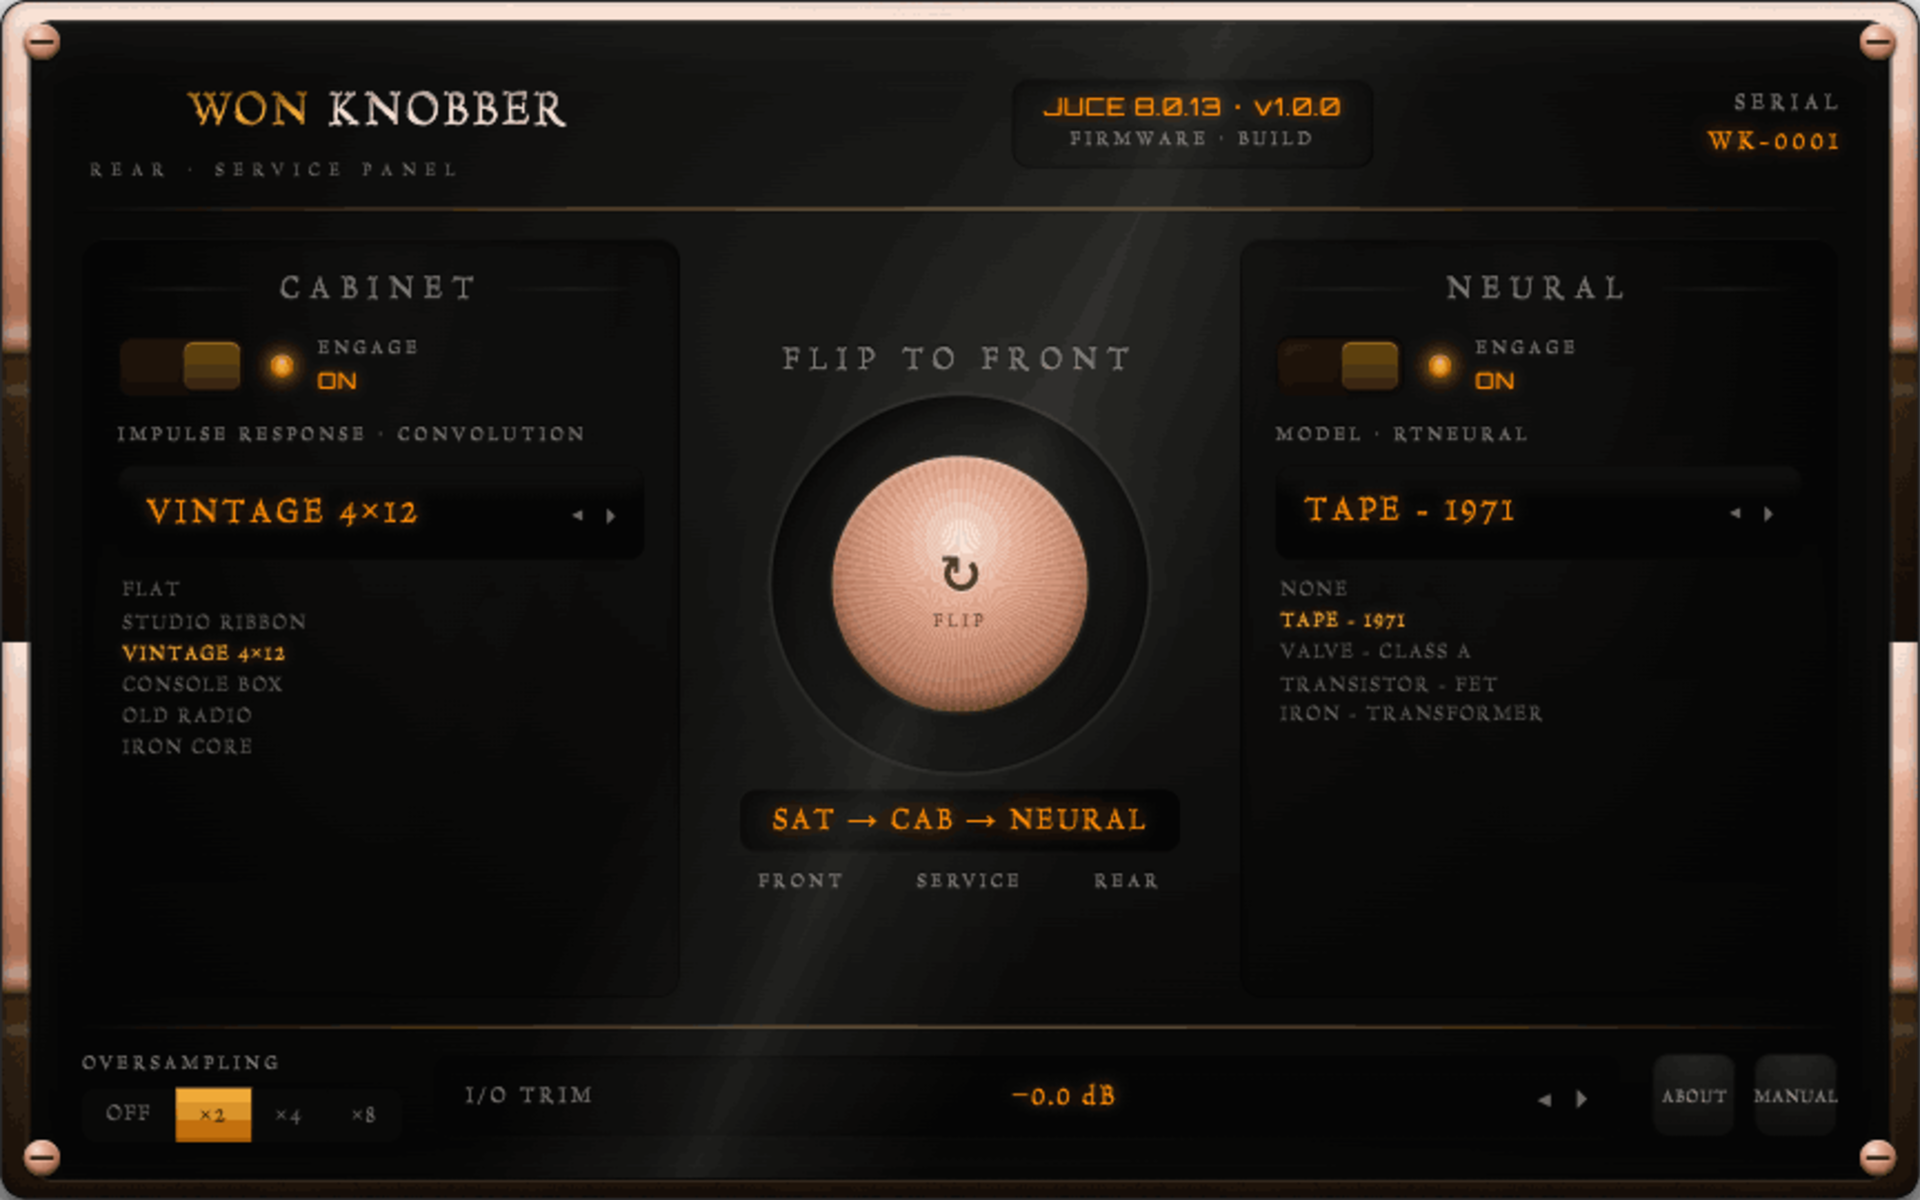
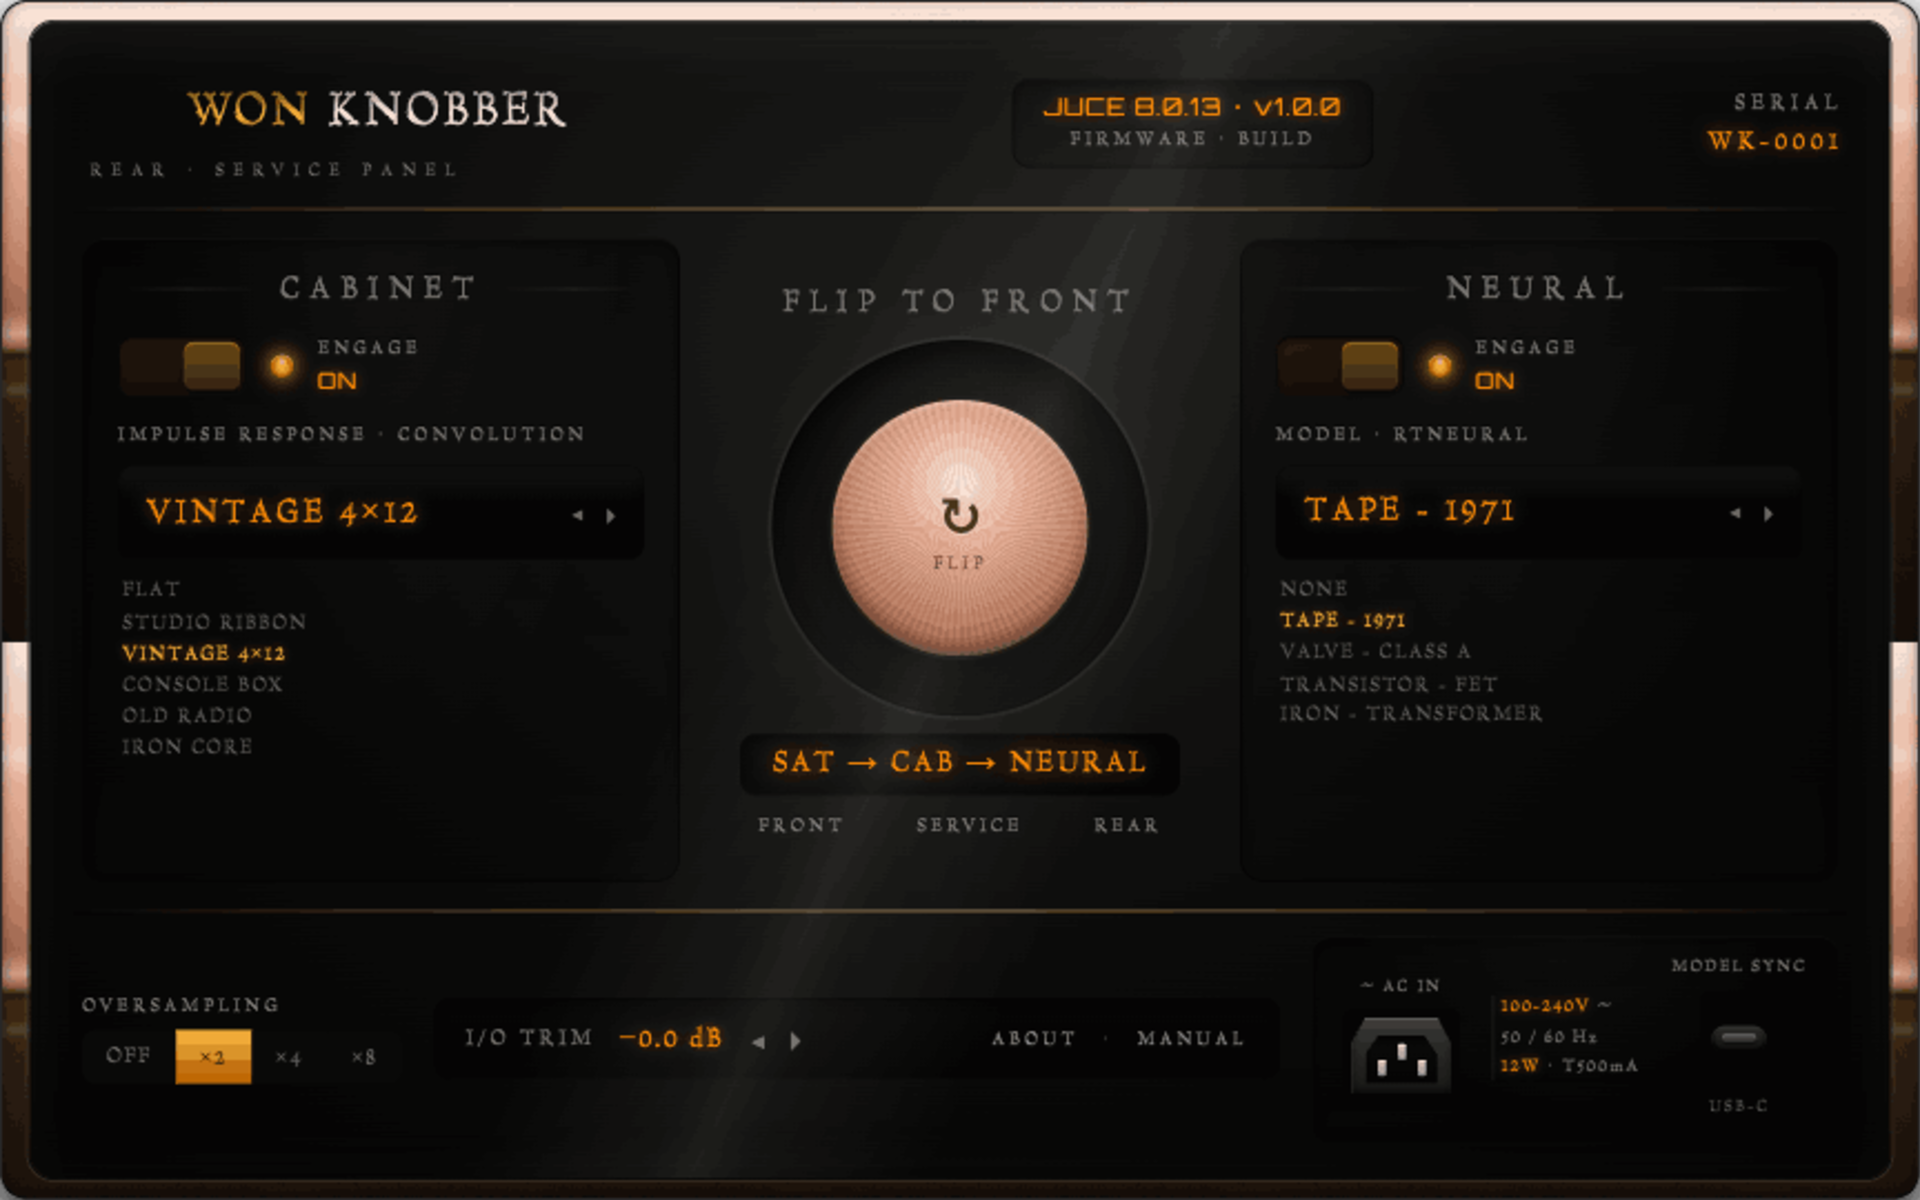
design: rose/amber rear panel PNG re-bake (Jun 2 handoff) (#52)
* design: rose/amber rear panel PNG re-bake (Design handoff zip 2026-06-02)

Replaces Resources/rear-panel-background-* with repo-handoff exports from
"Won Knobber — One Knob Design System-handoff (2).zip". Anchors unchanged
(#51 rects still authoritative).

* docs: refresh design handoff status after Jun 2 zip ingest

diff --git a/docs/DESIGN_HANDOFF_STATUS.md b/docs/DESIGN_HANDOFF_STATUS.md
@@ -1,14 +1,20 @@
-# Design handoff — filesystem status (2026-06-02)
+# Design handoff — filesystem status (2026-06-02 pm)
 
 | File | In repo? | Notes |
 |------|----------|-------|
-| `voice-cab-neural-map.md` | Yes (#43 / #44) | Authoritative voice map |
-| `SYNC_TO_CC_cab_neural_direction.md` | Yes | §3 bypass + About spec |
-| `rear-panel-anchors.json` | **Stale (#43/44)** | Re-measured JSON **not in Grok relay** — need file path (like bypass tokens) or re-paste; old anchors still have 42×42 About/Manual buttons |
-| `modified-from-preset-indicator.md` | Yes | Design 2026-06-02 — wire with preset bake |
+| `voice-cab-neural-map.md` | Yes (#43) | Authoritative voice map |
+| `SYNC_TO_CC_cab_neural_direction.md` | Yes | §1–§4 rear-fold direction |
+| `rear-panel-anchors.json` | Yes (**#51** on `main`) | Re-measured coords — use this for PR4 |
+| `modified-from-preset-indicator.md` | Yes | 4-field dirty rule (PR #50) |
 | `preset-override-precedence.md` | Yes | Stamp-six / persist-until-load |
-| `rear-panel-bg.html` + rear PNGs | Yes | @2x re-bake pending Design/CC pipeline |
-| `bypass-dimstate-tokens.json` | Yes (#46) | **Design-canonical** (Downloads handoff 2026-06-02) |
+| `rear-panel-bg.html` | Yes | Source mock; baked PNGs in `Resources/` |
+| `rear-panel-background-*.png` | **PR #52** | Rose/amber re-bake from Design zip `(2)` 2026-06-02 |
+| `bypass-dimstate-tokens.json` | Yes (#46) | Design-canonical |
 | `cab-neural-id-bridge.json` | Yes (#43) | UI display ↔ `state_id` |
 
-**Recurrence fix:** Design workspace → Kali/Grok commit → `docs/` + `Resources/` on WON-KNOBBER.
+## Still owed from Design (PR4 blockers)
+
+- **Flip spec / flip-trio** — not present in the Jun 2 design-system zip; corner-screw → rear rotation wiring waits on this.
+- `CURRENT_VERSIONS.md` inside the zip is stale (claims anchors uncommitted; #51 landed).
+
+**Recurrence fix:** Design workspace → Kali path drop → Grok PR (`repo-handoff/` only) → CC merges → PR4 paint.
